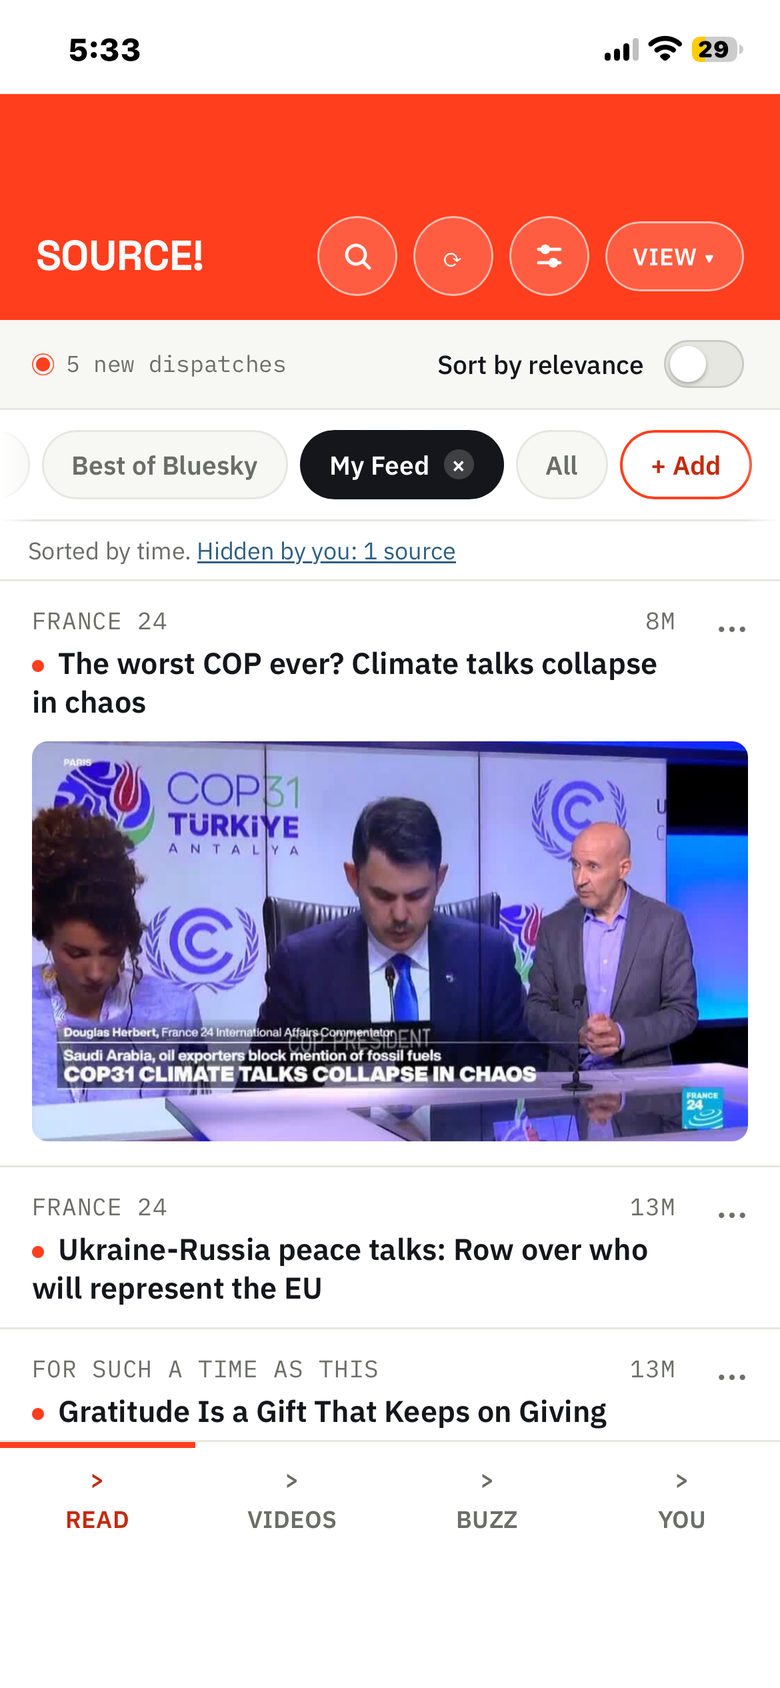
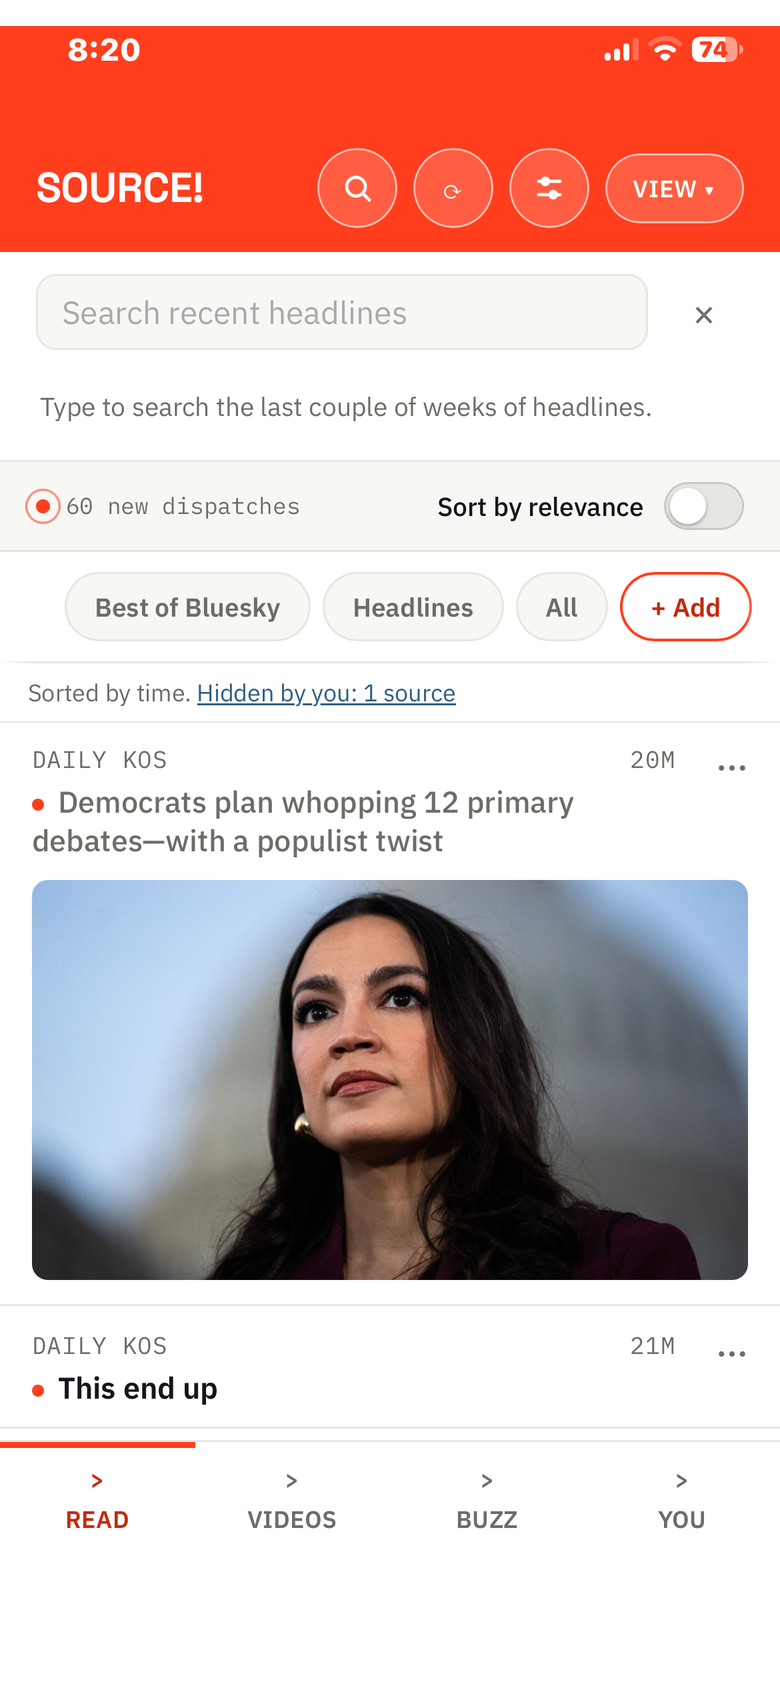
Scroll view: picture rows (headline, then image) until opened; new homepage Read screenshot (sw v140)

diff --git a/public/source/source.js b/public/source/source.js
@@ -2816,6 +2816,12 @@
       renderMobileClassic(shown, trendingLinks);
       return;
     }
+    // Scroll: the same rows as Classic with a picture under every headline until
+    // the row is opened (phone and desktop; desktop keeps its centered column).
+    if (getReadDisplay() === "scroll") {
+      renderMobileClassic(shown, trendingLinks, { scroll: true });
+      return;
+    }
     if (getLayoutMode() === "desktop" && getReadDisplay() === "classic") {
       renderReadClassic(shown, trendingLinks);
       return;
@@ -3298,18 +3304,23 @@
   // newest first, same as every other view.
   // ---------------------------------------------------------------
   const mobileClassicSeen = new Set();
-  function renderMobileClassic(shown, trendingLinks) {
+  function renderMobileClassic(shown, trendingLinks, opts) {
+    // opts.scroll: the Scroll view. Same rows as Classic, but every story with a
+    // picture shows it under the headline until the row is opened.
+    const scroll = !!(opts && opts.scroll);
     const main = document.getElementById("main");
     main.classList.remove("read-layout", "read-scroll-desktop");
     main.classList.add("read-mobile-classic");
+    if (scroll && getLayoutMode() === "desktop") main.classList.add("read-scroll-desktop");
+    const heroList = [];
     // The top story gets its picture up front (if it has one); every other row
     // keeps loading its image only when opened.
     let heroDispatch = null;
     main.innerHTML = `<div class="mc-list">` + readEntries(shown).map(e => {
       if (e.role === "group") return relGroupHtml(e);
       const d = e.d;
-      const isHero = !heroDispatch && !!d.link;
-      if (isHero) heroDispatch = d;
+      const isHero = scroll ? !!d.link : (!heroDispatch && !!d.link);
+      if (isHero) { if (!heroDispatch) heroDispatch = d; heroList.push(d); }
       const id = escapeHtml(String(d.id));
       const title = escapeHtml(d.title || d.headline || "");
       const outlet = escapeHtml(d.outlet || d.source || "");
@@ -3371,7 +3382,45 @@
     wireSaveButtons(main);
     wireStoryShareButtons(main);
     main.querySelector(".mc-list")?.insertAdjacentHTML("beforeend", readFootnoteHtml());
-    loadHeroImage(heroDispatch);
+    if (scroll) loadScrollHeroes(main, heroList);
+    else loadHeroImage(heroDispatch);
+  }
+
+  // Scroll view: each row's picture is fetched only as the row nears the screen,
+  // so a long list does not download every image at once. Stored image first;
+  // otherwise one batched preview lookup per few rows. No picture = no hero.
+  function loadScrollHeroes(main, list) {
+    const byId = new Map(list.map(d => [String(d.id), d]));
+    const pending = new Set();
+    let timer = null;
+    const flush = async () => {
+      timer = null;
+      const ids = Array.from(pending); pending.clear();
+      for (let i = 0; i < ids.length; i += 20) {
+        const batch = ids.slice(i, i + 20);
+        let map = {};
+        try { map = await api(`/api/dispatches/thumbnails?ids=${encodeURIComponent(batch.join(","))}`) || {}; } catch (e) { /* nice-to-have */ }
+        batch.forEach(id => {
+          const img = document.getElementById(`hero-${id}`);
+          if (!img) return;
+          if (map[id]) img.src = map[id]; else img.remove();
+        });
+      }
+    };
+    const want = (row) => {
+      const id = row.dataset.id;
+      const d = byId.get(id);
+      const img = document.getElementById(`hero-${id}`);
+      if (!d || !img || img.getAttribute("src")) return;
+      if (d.image_url) img.src = d.image_url;
+      else { pending.add(id); if (!timer) timer = setTimeout(flush, 120); }
+    };
+    const rows = main.querySelectorAll(".mc-row");
+    if (typeof IntersectionObserver === "undefined") { Array.from(rows).slice(0, 30).forEach(want); return; }
+    const io = new IntersectionObserver((entries) => {
+      entries.forEach(en => { if (en.isIntersecting) { io.unobserve(en.target); want(en.target); } });
+    }, { rootMargin: "700px 0px" });
+    rows.forEach(r => io.observe(r));
   }
 
   // Picture for the top row in mobile Classic. Uses the stored image if there

diff --git a/public/home/index.html b/public/home/index.html
@@ -48,7 +48,7 @@ a{color:#14161B}a:hover{color:#C42A0E}
 
 <div style="flex:0 0 300px;margin:0 auto">
 <div style="width:300px;height:560px;border:2px solid #14161B;border-radius:30px;overflow:hidden;box-sizing:border-box;background:#ffffff">
-<img width="780" height="1688" src="/home/shots/read.png" alt="SOURCE! Read tab: an orange header, the My Feed pack selected, and a newest-first list of headlines" style="width:100%;height:auto;display:block;margin-top:-36px">
+<img width="780" height="1688" src="/home/shots/read.png" alt="SOURCE! Read tab: an orange header, a Daily Kos story with its picture under the headline, and the next headline below it, newest first" style="width:100%;height:auto;display:block;margin-top:-36px">
 </div>
 </div>
 </div>

diff --git a/public/source/source.css b/public/source/source.css
@@ -3376,3 +3376,6 @@ a.top-pub-main:hover .top-pub-headline { color: var(--live-ink, #C42A0E); }
 
 .vid-pill-row { display: flex; gap: 8px; padding: 6px 0 10px; }
 .vid-pill-row .vid-pill { min-height: 40px; }
+
+/* Scroll view rows: a slightly taller picture than the Classic top-row hero. */
+#main.read-mobile-classic .mc-hero { max-height: 220px; }

diff --git a/public/source/sw.js b/public/source/sw.js
@@ -1,5 +1,5 @@
-const SHELL_CACHE = "source-app-shell-v139";
-const DATA_CACHE = "source-app-data-v139";
+const SHELL_CACHE = "source-app-shell-v140";
+const DATA_CACHE = "source-app-data-v140";
 
 const SHELL_ASSETS = [
   "/source/",
